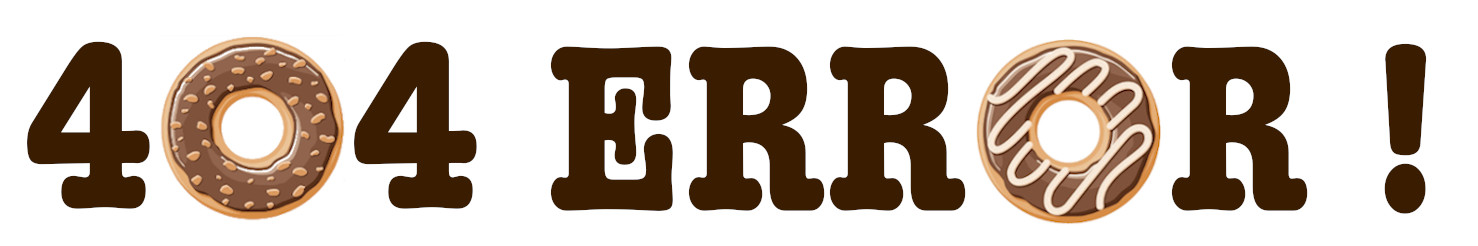
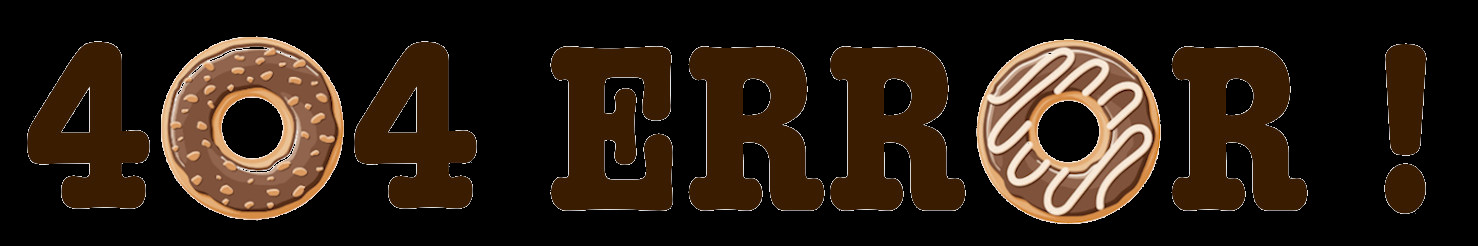
エラーページデザインの変更

diff --git a/src/main/resources/templates/error/500.html b/src/main/resources/templates/error/500.html
@@ -1,24 +1,68 @@
 <!DOCTYPE html>
-<html lang="ja"
-	xmlns:th="http://www.thymeleaf.org"
+<html lang="ja" 
+	xmlns:th="http://www.thymeleaf.org" 
 	xmlns:sec="http://www.thymeleaf.org/extras/spring-security">
 <head>
-<meta charset="UTF-8">
+<meta charset="utf-8">
+<meta http-equiv="X-UA-Compatible" content="IE=edge">
+<meta name="viewport" content="width=device-width, initial-scale=1">
 <title>RakuRaku&nbsp;Coffee</title>
+<link href="../static/css/bootstrap.css" rel="stylesheet" th:href="@{/css/bootstrap.css}">
 <link href="../static/css/coffee.css" rel="stylesheet" th:href="@{/css/coffee.css}">
+<!--[if lt IE 9]>
+<script src="https://oss.maxcdn.com/html5shiv/3.7.2/html5shiv.min.js"></script>
+<script src="https://oss.maxcdn.com/respond/1.4.2/respond.min.js"></script>
+<![endif]-->
 </head>
 <body>
-<pre>
-以下のいずれかの理由でシステムの操作を中断しました。
-
-・不正な操作が行われた
-・長い時間操作を行わなかった
-・現在システムメンテナンス中
-
-しばらく経ってからもう一度操作してください。
-
-</pre>
-
-<a th:href="@{/}" class="navbar-link">ログイン画面</a>
+	<div class="container">
+		<nav class="navbar navbar-default">
+			<div class="container-fluid">
+<!-- Brand and toggle get grouped for better mobile display -->
+				<div class="navbar-header">
+					<button type="button" class="navbar-toggle collapsed" data-toggle="collapse" 
+					data-target="#bs-example-navbar-collapse-1" aria-expanded="false">
+						<span class="sr-only">Toggle navigation</span>
+						<span class="icon-bar"></span>
+						<span class="icon-bar"></span>
+						<span class="icon-bar"></span>
+					</button>
+					<a class="navbar-brand" href="item_list.html" th:href="@{/}">
+<!-- 企業ロゴ -->
+					<img alt="main log" src="../static/img_coffee/header_logo.png" 
+					th:src="@{/img_coffee/header_logo.png}" height="35"></a>
+				</div>
+<!-- Collect the nav links, forms, and other content for toggling -->
+				<div class="collapse navbar-collapse" id="bs-example-navbar-collapse-1">
+					<p class="navbar-text navbar-right">
+						<a href="cart_list.html" th:href="@{/show_item_in_cart}" class="navbar-link">ショッピングカート</a>&nbsp;&nbsp;
+						<a href="order_history.html" th:href="@{/show_order_history}" class="navbar-link">注文履歴</a>&nbsp;&nbsp;
+						<a href="item_list.html" th:href="@{/logout}" class="navbar-link">ログアウト</a>
+					</p>
+				</div>
+<!-- /.navbar-collapse -->
+			</div>
+<!-- /.container-fluid -->
+		</nav>
+<!-- table -->
+		<table>
+			<tr>
+				<td>
+					<img id="errorimg" src="img_coffee/500.png">
+				</td>	
+			</tr>
+			<tr>
+				<td>
+					<h2 class="text-center">以下のいずれかの理由でシステムの操作を中断しました。</h2>
+					<h3>・不正な操作が行われた</h3>
+					<h3>・長い時間操作を行わなかった</h3>
+					<h3>・現在システムメンテナンス中</h3>
+				</td>	
+			</tr>
+		</table>
+	</div>
+<!-- end container -->
+<script src="https://ajax.googleapis.com/ajax/libs/jquery/1.11.3/jquery.min.js"></script>
+<script src="../static/js/bootstrap.min.js" th:src="@{/js/bootstrap.min.js}"></script>
 </body>
 </html>

diff --git a/src/main/resources/templates/error/404.html b/src/main/resources/templates/error/404.html
@@ -1,22 +1,65 @@
 <!DOCTYPE html>
-<html lang="ja" xmlns:th="http://www.thymeleaf.org">
+<html lang="ja" 
+	xmlns:th="http://www.thymeleaf.org" 
+	xmlns:sec="http://www.thymeleaf.org/extras/spring-security">
 <head>
 <meta charset="utf-8">
 <meta http-equiv="X-UA-Compatible" content="IE=edge">
 <meta name="viewport" content="width=device-width, initial-scale=1">
 <title>RakuRaku&nbsp;Coffee</title>
+<link href="../static/css/bootstrap.css" rel="stylesheet" th:href="@{/css/bootstrap.css}">
 <link href="../static/css/coffee.css" rel="stylesheet" th:href="@{/css/coffee.css}">
+<!--[if lt IE 9]>
+<script src="https://oss.maxcdn.com/html5shiv/3.7.2/html5shiv.min.js"></script>
+<script src="https://oss.maxcdn.com/respond/1.4.2/respond.min.js"></script>
+<![endif]-->
 </head>
 <body>
-
-<pre>
-404 Not Found
-申し訳ございません。お探しのページは見つかりませんでした。
-
-以下のリンクからログインし直してください。
-
-</pre>
-
-<a th:href="@{/}" class="navbar-link">ログイン画面</a>
+	<div class="container">
+		<nav class="navbar navbar-default">
+			<div class="container-fluid">
+<!-- Brand and toggle get grouped for better mobile display -->
+				<div class="navbar-header">
+					<button type="button" class="navbar-toggle collapsed" data-toggle="collapse" 
+					data-target="#bs-example-navbar-collapse-1" aria-expanded="false">
+						<span class="sr-only">Toggle navigation</span>
+						<span class="icon-bar"></span>
+						<span class="icon-bar"></span>
+						<span class="icon-bar"></span>
+					</button>
+					<a class="navbar-brand" href="item_list.html" th:href="@{/}">
+<!-- 企業ロゴ -->
+					<img alt="main log" src="../static/img_coffee/header_logo.png" 
+					th:src="@{/img_coffee/header_logo.png}" height="35"></a>
+				</div>
+<!-- Collect the nav links, forms, and other content for toggling -->
+				<div class="collapse navbar-collapse" id="bs-example-navbar-collapse-1">
+					<p class="navbar-text navbar-right">
+						<a href="cart_list.html" th:href="@{/show_item_in_cart}" class="navbar-link">ショッピングカート</a>&nbsp;&nbsp;
+						<a href="order_history.html" th:href="@{/show_order_history}" class="navbar-link">注文履歴</a>&nbsp;&nbsp;
+						<a href="item_list.html" th:href="@{/logout}" class="navbar-link">ログアウト</a>
+					</p>
+				</div>
+<!-- /.navbar-collapse -->
+			</div>
+<!-- /.container-fluid -->
+		</nav>
+<!-- table -->
+		<table>
+			<tr>
+				<td>
+					<img id="errorimg" src="img_coffee/404.png">
+				</td>	
+			</tr>
+			<tr>
+				<td>
+					<h2 class="text-center">申し訳ございません。お探しのページは見つかりませんでした。</h2>
+				</td>	
+			</tr>
+		</table>
+	</div>
+<!-- end container -->
+<script src="https://ajax.googleapis.com/ajax/libs/jquery/1.11.3/jquery.min.js"></script>
+<script src="../static/js/bootstrap.min.js" th:src="@{/js/bootstrap.min.js}"></script>
 </body>
 </html>

diff --git a/src/main/resources/templates/order_history.html b/src/main/resources/templates/order_history.html
@@ -48,7 +48,10 @@
 <!-- /.container-fluid -->
 		</nav>
 <!-- table -->
-		<h3 class="text-center" th:if="${orderHistoryListSize} == 0" th:text="注文履歴が存在しません"></h3>
+		<div th:if="${orderHistoryListSize} == 0" align="center">
+			<br>
+			<img src="img_coffee/noCart.png">
+		</div>
 		<div th:unless="${orderHistoryListSize} == 0">
 			<div class="row">
 				<div class="table-responsive col-lg-offset-1 col-lg-10 col-md-offset-1 col-md-10 col-sm-10 col-xs-12">

diff --git a/src/main/resources/templates/cart_list.html b/src/main/resources/templates/cart_list.html
@@ -51,7 +51,10 @@
 <!-- /.container-fluid -->
 		</nav>
 <!-- table -->
-		<h3 class="text-center" th:if="${orderSize} == 0" th:text="カートに商品がありません"></h3>
+		<div th:if="${orderSize} == 0" align="center">
+			<br>
+			<img src="img_coffee/noCart.png">
+		</div>
 		<div th:unless="${orderSize} == 0">
 			<div class="row">
 				<div class="table-responsive col-lg-offset-1 col-lg-10 col-md-offset-1 col-md-10 col-sm-10 col-xs-12">

diff --git a/src/main/resources/static/css/coffee.css b/src/main/resources/static/css/coffee.css
@@ -190,3 +190,7 @@ body {
 .table-striped > tbody > tr:nth-child(even) {
     background-color: #ffffff;
 }
+
+#errorimg {
+	width: 1150px;
+}
